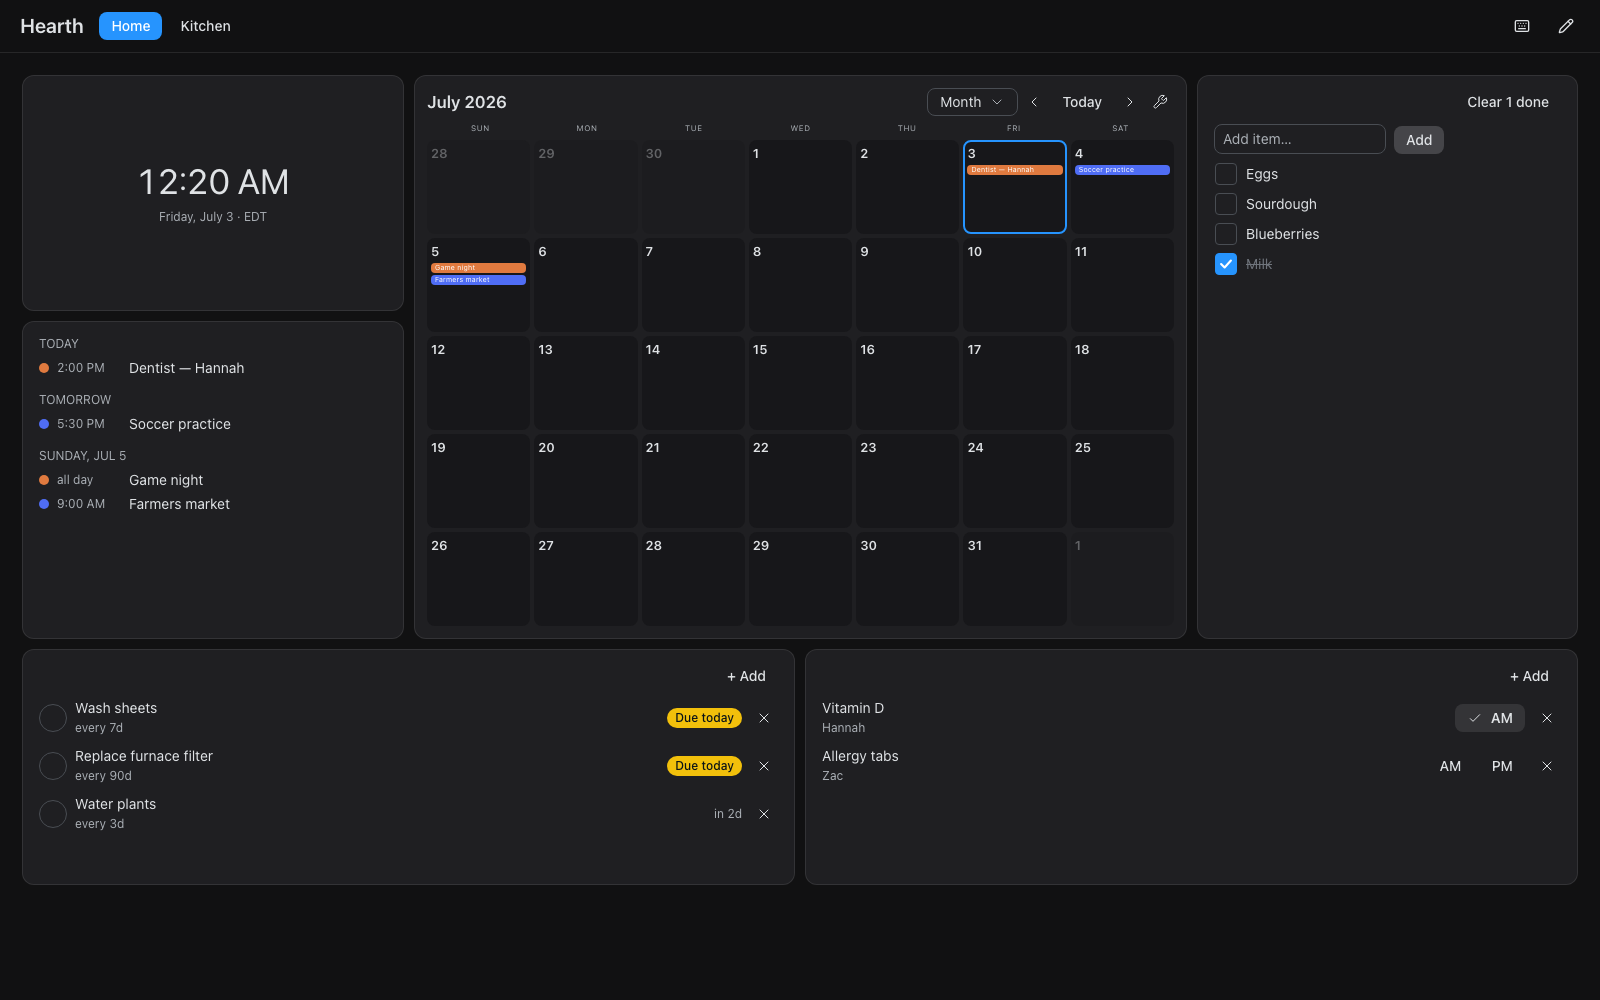
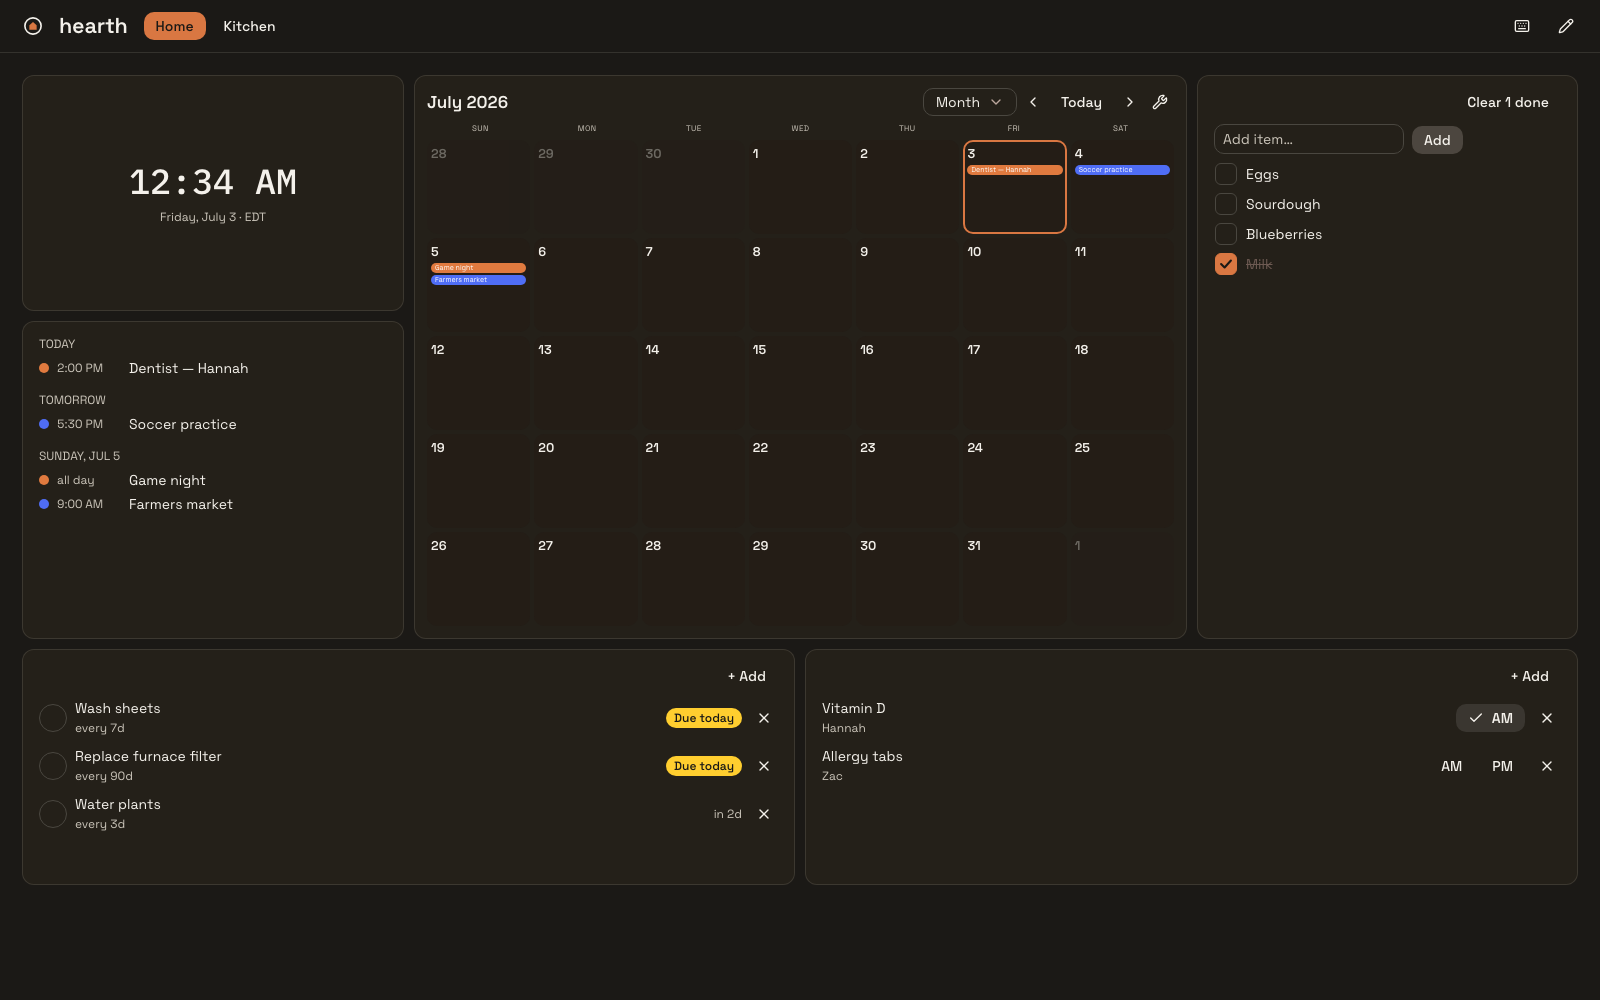
feat(brand): apply Hearth brand guidelines v1.0
The board now wears the brand: a custom Astryx theme (defineTheme
extending neutral) anchors Char/Paper backgrounds, Stone borders, warm
neutrals scale-generated from the ember accent (#D97742, glow #E8A87C
for hover tints), honoring the 'ember is the only voice of color'
rule. Space Grotesk carries voice (headings, UI, wordmark), IBM Plex
Mono carries data — clock and temperature readings use the data face.
Fonts are self-hosted via fontsource; nothing loads from a CDN on the
kiosk.

The header shows the horizontal lockup (ring-house mark, ring in text
color, house always ember; lowercase Space Grotesk wordmark at -1%
tracking) and the favicon follows the app-icon spec: char tile, mark
at 60% width. README heroes re-shot with the branding.

diff --git a/web/src/theme.ts b/web/src/theme.ts
@@ -1,0 +1,32 @@
+import { defineTheme } from "@astryxdesign/core/theme";
+import { neutralTheme } from "@astryxdesign/theme-neutral";
+
+// Hearth brand (Brand Guidelines v1.0): warm neutrals do the work, ember is
+// the only voice of color. Char/Paper anchor the dark and light backgrounds;
+// ember never exceeds small accents. Space Grotesk carries the voice,
+// IBM Plex Mono carries the data.
+export const hearthTheme = defineTheme({
+  name: "hearth",
+  extends: neutralTheme,
+  color: { accent: "#D97742", neutralStyle: "warm" },
+  typography: {
+    body: { family: "Space Grotesk", fallbacks: "system-ui, sans-serif" },
+    heading: { family: "Space Grotesk", fallbacks: "system-ui, sans-serif" },
+    code: { family: "IBM Plex Mono", fallbacks: "ui-monospace, monospace" },
+  },
+  tokens: {
+    // Brand-exact anchors (light, dark): Paper / Char backgrounds,
+    // Char / Paper text, Stone-derived borders, Ember accent with the
+    // ember-glow reserved for hover/active tints.
+    "--color-background-body": ["#F4F1EB", "#1B1916"],
+    "--color-background-surface": ["#FFFFFF", "#242019"],
+    "--color-background-card": ["#FFFFFF", "#242019"],
+    "--color-text-primary": ["#1B1916", "#F4F1EB"],
+    "--color-text-secondary": ["#4A4740", "#C9C3B8"],
+    "--color-border": ["#C9C3B84D", "#C9C3B826"],
+    "--color-border-emphasized": ["#C9C3B8", "#4A4740"],
+    "--color-accent": ["#D97742", "#D97742"],
+    "--color-accent-muted": ["#D9774233", "#E8A87C3F"],
+    "--color-on-accent": ["#FFFFFF", "#1B1916"],
+  },
+});

diff --git a/web/src/index.css b/web/src/index.css
@@ -7,7 +7,6 @@
 @import "tailwindcss/preflight.css" layer(base);
 @import "@astryxdesign/core/reset.css";
 @import "@astryxdesign/core/astryx.css";
-@import "@astryxdesign/theme-neutral/theme.css";
 @import "@astryxdesign/core/tailwind-theme.css";
 @import "tailwindcss/utilities.css" layer(utilities);
 
@@ -543,4 +542,29 @@ input[type="color"] {
   flex: 1;
   overflow-y: auto;
   min-height: 0;
+}
+
+/* --- brand --- */
+
+.brand-lockup {
+  display: inline-flex;
+  align-items: center;
+  /* lockup gap = half the mark width (Guidelines §1) */
+  gap: 13px;
+  user-select: none;
+}
+
+.brand-wordmark {
+  font-family: var(--font-family-heading, "Space Grotesk", sans-serif);
+  font-weight: 600;
+  font-size: 1.35rem;
+  letter-spacing: -0.01em;
+  line-height: 1;
+  color: var(--color-text-primary);
+}
+
+/* data readings render in the mono data face (Guidelines §3) */
+.brand-data {
+  font-family: var(--font-family-code, "IBM Plex Mono", monospace);
+  font-weight: 500;
 }

diff --git a/web/src/App.tsx b/web/src/App.tsx
@@ -104,6 +104,18 @@ const freePlacement: Compactor = {
 const BUILD_ID = import.meta.env.VITE_BUILD_ID ?? "dev";
 console.info(`hearth build ${BUILD_ID}`);
 
+// Brand mark (Guidelines §1): ember house held in a ring. The ring takes
+// the current text color; the house is always ember. Never recolored,
+// rotated, stretched, or outlined.
+function HearthMark() {
+  return (
+    <svg viewBox="0 0 64 64" width="26" height="26" aria-hidden>
+      <circle cx="32" cy="32" r="20" fill="none" stroke="currentColor" strokeWidth="4" />
+      <polygon points="32,22 41,30 41,41 23,41 23,30" fill="#D97742" />
+    </svg>
+  );
+}
+
 // Guide geometry mirrors RGL defaults: 10px margins/padding, 72px rows.
 /** Grid guides shown while a drag/resize gesture is in progress. */
 function GridGuides({ rows }: { rows: number }) {
@@ -323,10 +335,9 @@ export default function App() {
   return (
     <div className="app">
       <HStack as="header" className="app-header" gap={4} align="center">
-        <span title={`build ${BUILD_ID}`}>
-          <Heading level={1} className="app-title">
-            Hearth
-          </Heading>
+        <span className="brand-lockup" title={`build ${BUILD_ID}`}>
+          <HearthMark />
+          <span className="brand-wordmark">hearth</span>
         </span>
         <HStack as="nav" gap={1.5} className="flex-1">
           {views.map((v) => (

diff --git a/web/src/main.tsx b/web/src/main.tsx
@@ -1,11 +1,20 @@
 import { StrictMode } from "react";
 import { createRoot } from "react-dom/client";
+import { Theme } from "@astryxdesign/core";
+import "@fontsource/space-grotesk/400.css";
+import "@fontsource/space-grotesk/500.css";
+import "@fontsource/space-grotesk/600.css";
+import "@fontsource/ibm-plex-mono/400.css";
+import "@fontsource/ibm-plex-mono/500.css";
 import "react-grid-layout/css/styles.css";
 import "./index.css"; // Astryx + Tailwind layers live here
 import App from "./App";
+import { hearthTheme } from "./theme";
 
 createRoot(document.getElementById("root")!).render(
   <StrictMode>
-    <App />
+    <Theme theme={hearthTheme}>
+      <App />
+    </Theme>
   </StrictMode>,
 );

diff --git a/web/src/widgets/ClockWidget.tsx b/web/src/widgets/ClockWidget.tsx
@@ -56,7 +56,7 @@ export function ClockWidget({ item }: WidgetProps) {
 
   return (
     <VStack height="100%" justify="center" align="center" gap={1}>
-      <Text type="display-2" hasTabularNumbers>
+      <Text type="display-2" hasTabularNumbers className="brand-data">
         {display.toLocaleTimeString([], {
           hour: "2-digit",
           minute: "2-digit",

diff --git a/web/src/widgets/WeatherWidget.tsx b/web/src/widgets/WeatherWidget.tsx
@@ -176,7 +176,7 @@ export function WeatherWidget(_props: WidgetProps) {
     <VStack className="widget-body" gap={3}>
       <HStack gap={3} align="center">
         <span className="weather-icon">{icon}</span>
-        <Text type="display-2" hasTabularNumbers>
+        <Text type="display-2" hasTabularNumbers className="brand-data">
           {Math.round(f.current.temperature_2m)}°
         </Text>
         <VStack gap={0.5} className="min-w-0">